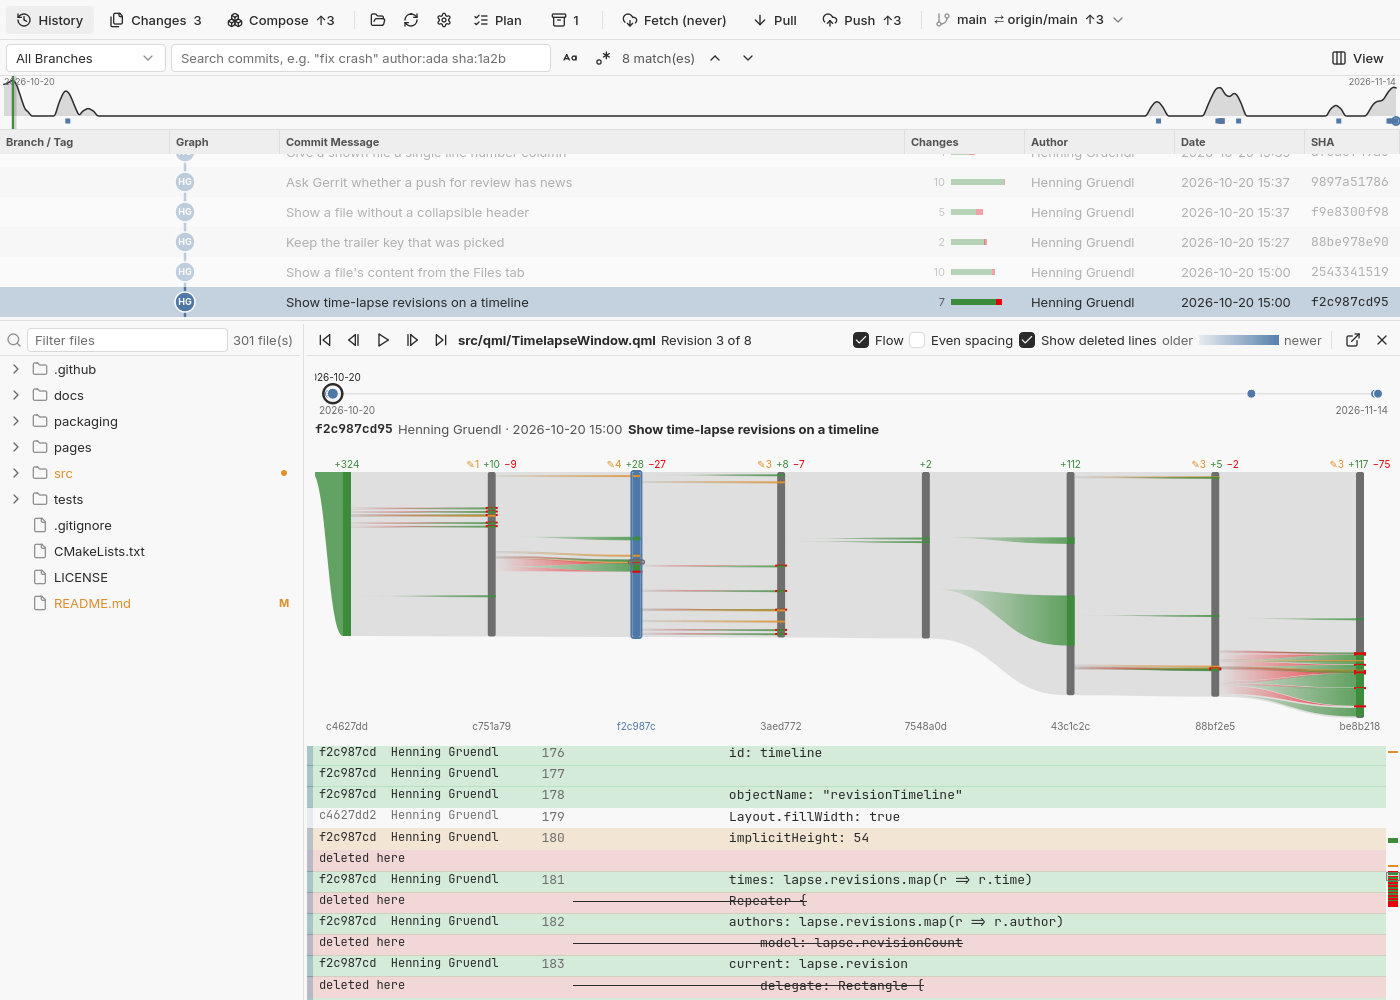
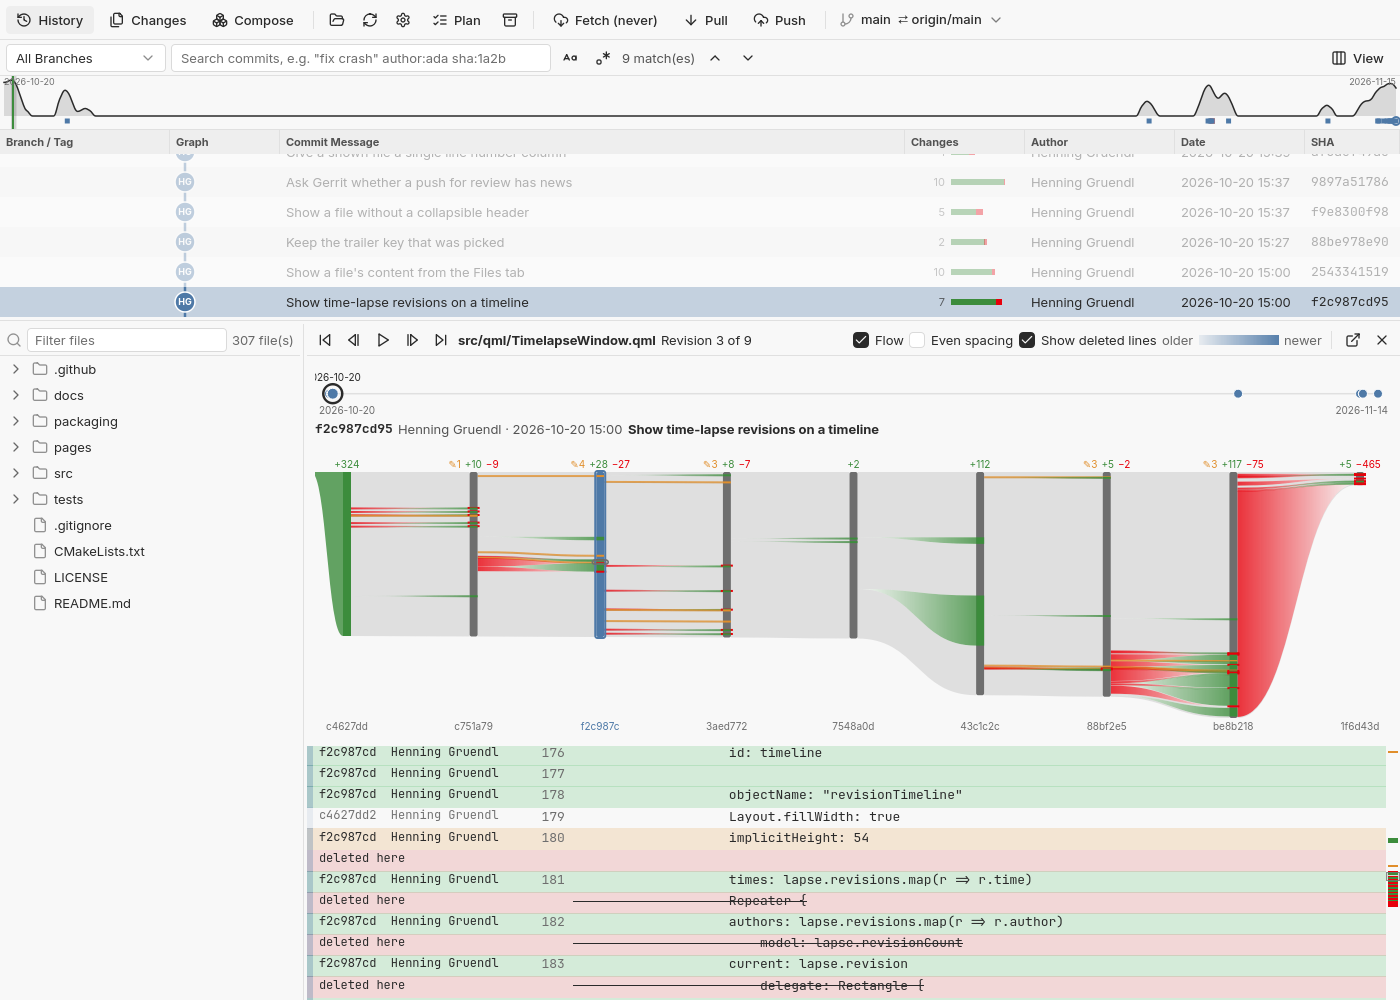
Fade removed lines out and added lines in
Every change used to take its color towards the revision on the right,
so a band of removed lines was gray where the lines had been and red
only where they were gone. Fading by kind follows what happened:
removed lines start solid where they were and fade out, added lines
fade in where they arrive, and edited lines stay solid all the way.
The bars still mark which revision made each change.

diff --git a/pages/index.html b/pages/index.html
@@ -166,13 +166,13 @@
     Sankey diagram. Each commit that touched the file is a node, a bar as long as the
     file was then, line 1 at the top. Between two nodes the lines flow from their old
     place to their new one: kept lines in gray, edited ones in orange, removed ones
-    narrowing in red to where they went, added ones widening in green from where they
-    came. Above each node its counts, below it its commit. Click a node to show that
+    narrowing in red to where they went and fading out, added ones fading in and
+    widening in green from where they came. Above each node its counts, below it its commit. Click a node to show that
     revision underneath, with what it added, edited and removed in the same colors;
     the wheel scrolls through the history and Ctrl+wheel zooms.
     <a href="https://github.com/iam-peter/igitt#time-lapse-view">More in the README</a>.</p>
   <img class="shot" src="flow.png" width="1400" height="1000" loading="lazy"
-       alt="The History mode with the history of TimelapseWindow.qml below the graph: its flow through eight commits, the third one picked, above that revision's lines, added in green and deleted in red">
+       alt="The History mode with the history of TimelapseWindow.qml below the graph: its flow through nine commits, the third one picked, above that revision's lines, added in green and deleted in red">
 
   <div class="detail">
     <p>Beside the scroll bar, a strip shows the whole file at once with the changes of

diff --git a/src/ui/FileFlowChart.cpp b/src/ui/FileFlowChart.cpp
@@ -214,14 +214,14 @@ void FileFlowChart::paint(QPainter *painter)
         }
     };
 
-    // A change takes its color toward the revision that made it, on the
-    // right, from the gray of the lines kept on the left: a band of lines
-    // removed is widest on the left, where they were, and would otherwise
-    // look like a change of the revision there
-    const auto towards = [&](qreal x0, qreal x1, const QColor &color) {
+    // Lines removed fade out on their way to the right, lines added fade
+    // in, and lines changed stay as they are all the way
+    const auto fade = [](qreal x0, qreal x1, QColor color, bool in) {
+        QColor clear = color;
+        clear.setAlphaF(0);
         QLinearGradient gradient(x0, 0, x1, 0);
-        gradient.setColorAt(0, kept);
-        gradient.setColorAt(1, color);
+        gradient.setColorAt(0, in ? clear : color);
+        gradient.setColorAt(1, in ? color : clear);
         return QBrush(gradient);
     };
 
@@ -240,16 +240,16 @@ void FileFlowChart::paint(QPainter *painter)
                 break;
             case LineChange::Removed:
                 widen(top0, bottom0);
-                painter->setBrush(towards(x0, x1, removed));
+                painter->setBrush(fade(x0, x1, removed, false));
                 break;
             case LineChange::Added:
                 widen(top1, bottom1);
-                painter->setBrush(towards(x0, x1, added));
+                painter->setBrush(fade(x0, x1, added, true));
                 break;
             case LineChange::Changed:
                 widen(top0, bottom0);
                 widen(top1, bottom1);
-                painter->setBrush(towards(x0, x1, changed));
+                painter->setBrush(changed);
                 break;
             }
             painter->drawPath(band(x0, top0, bottom0, x1, top1, bottom1));

diff --git a/README.md b/README.md
@@ -139,15 +139,15 @@ click or drag it to scroll.
 Switch on **Flow** to see the file's whole history as a Sankey diagram.
 Each revision is a node as long as the file was then, line 1 at the top.
 Between two nodes, kept lines flow in gray from their old place to their
-new one, edited lines in orange; removed lines narrow in red to where
-they went, added lines widen in green from where they came. A change
-belongs to the revision on the right, which made it: its bands take
-their color towards it, and its bar shows its own changes. Click a node
+new one, edited lines in orange all the way; removed lines narrow in
+red to where they went and fade out, added lines widen in green from
+where they came and fade in. A change belongs to the revision on the
+right, which made it, and its bar shows its own changes. Click a node
 to show that revision; on the current one, a marker shows the lines in
 sight in the code, and clicking or dragging along it scrolls there. The
 wheel scrolls through the revisions, Ctrl+wheel zooms.
 
-![The History mode with the history of TimelapseWindow.qml below the graph: its flow through eight commits, the third one picked, above that revision's lines, added in green and deleted in red](docs/screenshots/flow.png)
+![The History mode with the history of TimelapseWindow.qml below the graph: its flow through nine commits, the third one picked, above that revision's lines, added in green and deleted in red](docs/screenshots/flow.png)
 
 ![The time-lapse of Repository.h in a window of its own, at the revision that moved git onto a background thread](docs/screenshots/timelapse.png)
 
